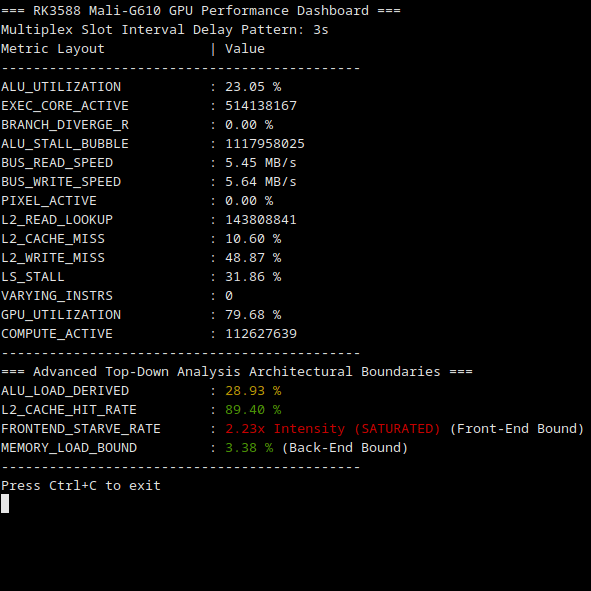
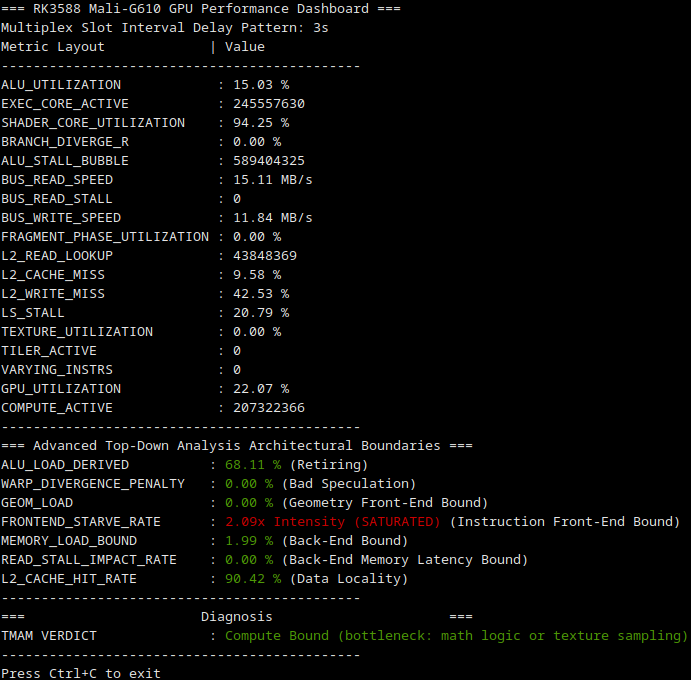
feat: add new indicators and repository citation tracking metadata
- new raw parameters: SHADER_CORE_UTILIZATION, BUS_READ_STALL, FRAGMENT_PHASE_UTILIZATION, TEXTURE_UTILIZATION, TILER_ACTIVE;
- new derived indicators: GEOM_LOAD, WARP_DIVERGENCE_PENALTY, MEMORY_SYSTEM_STALLS;
- create CITATION.cff file for automated software citation;
- include persistent Zenodo DOI link in the documentation;

diff --git a/main.cpp b/main.cpp
@@ -41,20 +41,24 @@ int main(int argc, char** argv) {
     // Mali-G610 (Valhall v3 CSF) IDs
     // check /usr/local/include/hwcpipe/hwcpipe_counter.h to add more
     map<hwcpipe_counter, string> dashboard = {
-        {MaliAnyUtil,               "GPU_UTILIZATION "},
-        {MaliFragActiveCy,          "PIXEL_ACTIVE    "},
-        {MaliCompQueueActiveCy,     "COMPUTE_ACTIVE  "},
-        {MaliCoreActiveCy,          "EXEC_CORE_ACTIVE"},
-        {MaliALUUtil,               "ALU_UTILIZATION "},
-        {MaliEngStarveCy,           "ALU_STALL_BUBBLE"},
-        {MaliVarInstr,              "VARYING_INSTRS  "},
-        {MaliLSUtil,                "LS_STALL        "},
-        {MaliL2CacheRdLookup,       "L2_READ_LOOKUP  "},
-        {MaliL2CacheRdMissRate,     "L2_CACHE_MISS   "},
-        {MaliL2CacheWrMissRate,     "L2_WRITE_MISS   "},
-        {MaliExtBusRdBy,            "BUS_READ_SPEED  "},
-        {MaliExtBusWrBy,            "BUS_WRITE_SPEED "},
-        {MaliEngDivergedInstrRate,  "BRANCH_DIVERGE_R"}
+        {MaliAnyUtil,               "GPU_UTILIZATION           "},
+        {MaliCoreUtil,              "SHADER_CORE_UTILIZATION   "},
+        {MaliFragUtil,              "FRAGMENT_PHASE_UTILIZATION"},
+        {MaliCompQueueActiveCy,     "COMPUTE_ACTIVE            "},
+        {MaliCoreActiveCy,          "EXEC_CORE_ACTIVE          "},
+        {MaliALUUtil,               "ALU_UTILIZATION           "},
+        {MaliEngStarveCy,           "ALU_STALL_BUBBLE          "},
+        {MaliVarInstr,              "VARYING_INSTRS            "},
+        {MaliLSUtil,                "LS_STALL                  "},
+        {MaliL2CacheRdLookup,       "L2_READ_LOOKUP            "},
+        {MaliL2CacheRdMissRate,     "L2_CACHE_MISS             "},
+        {MaliL2CacheWrMissRate,     "L2_WRITE_MISS             "},
+        {MaliExtBusRdStallCy,       "BUS_READ_STALL            "},
+        {MaliExtBusRdBy,            "BUS_READ_SPEED            "},
+        {MaliExtBusWrBy,            "BUS_WRITE_SPEED           "},
+        {MaliEngDivergedInstrRate,  "BRANCH_DIVERGE_R          "},
+        {MaliTilerActiveCy,         "TILER_ACTIVE              "},
+        {MaliTexUtil,               "TEXTURE_UTILIZATION       "}
     };
 
     // Global persistence caches for UI and absolute values
@@ -72,11 +76,11 @@ int main(int argc, char** argv) {
 
     // Explicitly bundle counters into 5 safe hardware slices
     vector<set<hwcpipe_counter>> bundle_sets = {
-        {MaliCoreActiveCy, MaliEngStarveCy, MaliEngDivergedInstrRate},       // Bundle 0: Starvation + Core Analytics
-        {MaliAnyUtil, MaliFragActiveCy, MaliCompQueueActiveCy},              // Bundle 1: High level activity
-        {MaliALUUtil, MaliLSUtil, MaliVarInstr},                             // Bundle 2: Execution Stalls
-        {MaliL2CacheRdLookup, MaliL2CacheRdMissRate, MaliL2CacheWrMissRate}, // Bundle 3: Caching
-        {MaliExtBusRdBy, MaliExtBusWrBy}                                     // Bundle 4: Ext Bus Memory
+        {MaliCoreActiveCy, MaliEngStarveCy, MaliEngDivergedInstrRate},          // Bundle 0: Starvation + Core Analytics
+        {MaliAnyUtil, MaliCompQueueActiveCy, MaliCoreUtil, MaliTilerActiveCy},  // Bundle 1: High level activity
+        {MaliALUUtil, MaliFragUtil, MaliLSUtil, MaliVarInstr, MaliTexUtil},     // Bundle 2: Execution Stalls
+        {MaliL2CacheRdLookup, MaliL2CacheRdMissRate, MaliL2CacheWrMissRate},    // Bundle 3: Caching
+        {MaliExtBusRdBy, MaliExtBusWrBy, MaliExtBusRdStallCy}                   // Bundle 4: Ext Bus Memory
     };
 
     // Instantiate 5 distinct configuration profiles
@@ -151,17 +155,20 @@ int main(int argc, char** argv) {
                             previous_raw_values[counter_enum] = current_raw_val;
                             previous_timestamps[counter_enum] = exact_sample_time;
                         }
-                        else if (counter_enum == MaliCoreActiveCy || counter_enum == MaliEngStarveCy) {
+                        else if (counter_enum == MaliCoreActiveCy || counter_enum == MaliEngStarveCy ||
+                                 counter_enum == MaliExtBusRdStallCy || counter_enum == MaliTilerActiveCy) {
                             stringstream ss; ss << fixed << setprecision(0) << current_raw_val;
                             live_values[counter_enum] = ss.str();
                         }
                         else if (counter_enum == MaliAnyUtil ||
-                                 counter_enum == MaliFragActiveCy ||
+                                 counter_enum == MaliFragUtil ||
                                  counter_enum == MaliALUUtil ||
                                  counter_enum == MaliLSUtil ||
                                  counter_enum == MaliL2CacheRdMissRate ||
                                  counter_enum == MaliL2CacheWrMissRate ||
-                                 counter_enum == MaliEngDivergedInstrRate) {
+                                 counter_enum == MaliEngDivergedInstrRate ||
+                                 counter_enum == MaliCoreUtil ||
+                                 counter_enum == MaliTexUtil) {
 
                             stringstream ss;
                             ss << fixed << setprecision(2) << current_raw_val << " %";
@@ -215,53 +222,142 @@ int main(int argc, char** argv) {
         cout << string(45, '-') << endl;
 
         // --- TOP-DOWN ANALYSIS MATH ---
+        double total_cycles = processed_numeric_values[MaliCoreActiveCy];
         double gpu_util = processed_numeric_values[MaliAnyUtil];
+        double core_util = processed_numeric_values[MaliCoreUtil];
+        double texture_util = processed_numeric_values[MaliTexUtil];
         double alu_util = processed_numeric_values[MaliALUUtil];
+        double fragment_util = processed_numeric_values[MaliALUUtil];
+        double tiler_cycles = processed_numeric_values[MaliTilerActiveCy];
+        double devergence_freq = processed_numeric_values[MaliEngDivergedInstrRate];
         double ls_stall = processed_numeric_values[MaliLSUtil];
         double l2_miss = processed_numeric_values[MaliL2CacheRdMissRate];
+        double rd_stalls = processed_numeric_values[MaliExtBusRdStallCy];
 
         // ALU LOAD DERIVED
         string alu_load_str = "0.00 %";
-        double alu_load_val = 0.0;
+        double alu_load = 0.0;
         if (gpu_util > 0.001) {
-            alu_load_val = (alu_util / gpu_util) * 100.0;
-            if (alu_load_val > 100.0) alu_load_val = 100.0;
-            stringstream ss; ss << fixed << setprecision(2) << alu_load_val << " %";
+            alu_load = (alu_util / gpu_util) * 100.0;
+            if (alu_load > 100.0) alu_load = 100.0;
+            stringstream ss; ss << fixed << setprecision(2) << alu_load << " %";
             alu_load_str = ss.str();
         }
-        // L2 CACHE HIT RATE
-        double l2_hit_rate_val = 100.0 - l2_miss;
-        if (l2_hit_rate_val < 0.0) l2_hit_rate_val = 0.0;
-        stringstream ss_l2; ss_l2 << fixed << setprecision(2) << l2_hit_rate_val << " %";
 
-        // MEMORY LOAD BOUND (Back-End Bound Equivalent)
-        double memory_load_bound_val = ls_stall * (l2_miss / 100.0);
-        if (memory_load_bound_val > 100.0) memory_load_bound_val = 100.0;
-        stringstream ss_mlb; ss_mlb << fixed << setprecision(2) << memory_load_bound_val << " %";
+        // TILER BOUND RATE
+        string geom_util_str = "0.00 %";
+        double geom_util = 0.0;
+        if (total_cycles > 0.001) {
+            geom_util = (tiler_cycles / total_cycles) * 100.0;
+            if (geom_util < 0.0) geom_util = 0.0;
+            stringstream ss; ss << fixed << setprecision(2) << geom_util << " %";
+            geom_util_str = ss.str();
+        }
+
+        // WARP DIVERGENCE PENALTY
+        double bad_spec_penalty = alu_util * (devergence_freq / 100.0);
+        if (bad_spec_penalty < 0.0) bad_spec_penalty = 0.0;
+        stringstream ss_bad_spec; ss_bad_spec << fixed << setprecision(2) << bad_spec_penalty << " %";
+
+        // L2 CACHE HIT RATE
+        double l2_hit_rate = 100.0 - l2_miss;
+        if (l2_hit_rate < 0.0) l2_hit_rate = 0.0;
+        stringstream ss_l2; ss_l2 << fixed << setprecision(2) << l2_hit_rate << " %";
+
+        // MEMORY LOAD BOUND
+        double memory_load_bound = ls_stall * (l2_miss / 100.0);
+        if (memory_load_bound > 100.0) memory_load_bound = 100.0;
+        stringstream ss_mlb; ss_mlb << fixed << setprecision(2) << memory_load_bound << " %";
+
+        // MEMORY SYSTEM STALLS
+        string l2_stall_rate_str = "0.00 %";
+        double l2_stall_rate = 0.0;
+        if (total_cycles > 0.001) {
+            l2_stall_rate = (rd_stalls / total_cycles) * 100.0;
+            if (l2_stall_rate < 0.0) l2_stall_rate = 0.0;
+            if (l2_stall_rate > 100.0) l2_stall_rate = 100.0;
+            stringstream ss; ss << fixed << setprecision(2) << l2_stall_rate << " %";
+            l2_stall_rate_str = ss.str();
+        }
 
         // --- ASSIGN ANSI DYNAMIC COLOR LOGIC TO THE DERIVED OUTPUT ENGINE ---
         string color_alu = "\033[33m"; // Yellow Default
-        if (alu_load_val > 40.0) color_alu = "\033[32m"; // Green: Dense math processing
-        else if (alu_load_val < 20.0 && gpu_util > 50.0) color_alu = "\033[31m"; // Red: GPU busy but running tiny math
+        if (alu_load > 40.0) color_alu = "\033[32m"; // Green: Dense math processing
+        else if (alu_load < 20.0 && gpu_util > 50.0) color_alu = "\033[31m"; // Red: GPU busy but running tiny math
+
+        string color_tiler = "\033[32m"; // Green: Baseline geometry pipeline load
+        if (geom_util > 75.0) color_tiler = "\033[31m"; // Red: Severe geometry pipeline bottleneck
+        else if (geom_util > 50.0) color_tiler = "\033[33m"; // Yellow: Moderate geometry pipeline bottleneck
+
+        string color_badspec = "\033[32m"; // Green Default
+        if (devergence_freq > 35.0 && bad_spec_penalty > 15.0) color_badspec = "\033[31m"; // Red: ALU cycles are being burned processing empty, masked-out lane instructions
+        else if (devergence_freq > 15.0) color_badspec = "\033[33m"; // Yellow: Rising execution slot waste due to warp divergence serialization
 
         string color_l2 = "\033[32m"; // Green Default
-        if (l2_hit_rate_val < 75.0) color_l2 = "\033[31m"; // Red: Terribly un-aligned cache layout
-        else if (l2_hit_rate_val < 85.0) color_l2 = "\033[33m"; // Yellow: Cache misses rising
+        if (l2_hit_rate < 75.0) color_l2 = "\033[31m"; // Red: Terribly un-aligned cache layout
+        else if (l2_hit_rate < 85.0) color_l2 = "\033[33m"; // Yellow: Cache misses rising
+
+        string color_l2stall = "\033[32m"; // Green: Baseline cache/bus state
+        if (l2_stall_rate > 20.0) color_l2stall = "\033[31m"; // Red: Severe system RAM bandwidth starvation / high latency stalls
+        else if (l2_stall_rate > 10.0) color_l2stall = "\033[33m"; // Yellow: Increasing memory bus pressure / elevated cache misses
 
         string color_starve = "\033[32m"; // Green Default
         if (raw_starve_ratio > 1.50) color_starve = "\033[31m"; // Red: Multi-pipeline instruction starvation is heavy
         else if (raw_starve_ratio > 0.80) color_starve = "\033[33m"; // Yellow: Medium bubble presence
 
         string color_mlb = "\033[32m"; // Green Default
-        if (memory_load_bound_val > 15.0) color_mlb = "\033[31m"; // Red: Major system RAM bottlenecking
-        else if (memory_load_bound_val > 5.0) color_mlb = "\033[33m"; // Yellow: Medium load constraints
+        if (memory_load_bound > 15.0) color_mlb = "\033[31m"; // Red: Major system RAM bottlenecking
+        else if (memory_load_bound > 5.0) color_mlb = "\033[33m"; // Yellow: Medium load constraints
 
         // Display Advanced Top-Down Block Output Layout with Dynamic Colors applied
         cout << "=== Advanced Top-Down Analysis Architectural Boundaries ===" << endl;
-        cout << setw(25) << left << "ALU_LOAD_DERIVED" << " : " << colorize(alu_load_str, color_alu) << endl;
-        cout << setw(25) << left << "L2_CACHE_HIT_RATE" << " : " << colorize(ss_l2.str(), color_l2) << endl;
-        cout << setw(25) << left << "FRONTEND_STARVE_RATE" << " : " << colorize(stable_starve_rate_str, color_starve) << " (Front-End Bound)" << endl;
+        cout << setw(25) << left << "ALU_LOAD_DERIVED" << " : " << colorize(alu_load_str, color_alu) << " (Retiring)" << endl;
+        cout << setw(25) << left << "WARP_DIVERGENCE_PENALTY" << " : " << colorize(ss_bad_spec.str(), color_badspec) << " (Bad Speculation)" << endl;
+        cout << setw(25) << left << "GEOM_LOAD" << " : " << colorize(geom_util_str, color_tiler) << " (Geometry Front-End Bound)" << endl;
+        cout << setw(25) << left << "FRONTEND_STARVE_RATE" << " : " << colorize(stable_starve_rate_str, color_starve) << " (Instruction Front-End Bound)" << endl;
         cout << setw(25) << left << "MEMORY_LOAD_BOUND" << " : " << colorize(ss_mlb.str(), color_mlb) << " (Back-End Bound)" << endl;
+        cout << setw(25) << left << "READ_STALL_IMPACT_RATE" << " : " << colorize(l2_stall_rate_str, color_l2stall) << " (Back-End Memory Latency Bound)" << endl;
+        cout << setw(25) << left << "L2_CACHE_HIT_RATE" << " : " << colorize(ss_l2.str(), color_l2) << " (Data Locality)" << endl;
+        cout << string(45, '-') << endl;
+
+        // Final conclusions
+        cout << "===                      Diagnosis                      ===" << endl;
+        string color_diag = "\033[37m"; // Green Default
+        string str_diag = "Mixed (bottleneck: unidentified)";
+        if (core_util > 80.0) {
+            if (alu_util < 20.0 && texture_util < 20.0 && ls_stall < 20.0) {
+                color_diag = "\033[33m"; // Yellow
+                str_diag = "Stalling (bottleneck: instruction dependencies or branch divergence)";
+            } else if (alu_util > 80.0) {
+                color_diag = "\033[32m"; // Green
+                str_diag = "High Retiring (bottleneck: pure math)";
+            } else if (texture_util > 80.0) {
+                color_diag = "\033[32m"; // Green
+                str_diag = "High Retiring (bottleneck: texture sampling execution)";
+            } else if (l2_stall_rate < 5.0) {
+                color_diag = "\033[32m"; // Green
+                str_diag = "Compute Bound (bottleneck: math logic or texture sampling)";
+            } else if (l2_stall_rate > 20.0) {
+                color_diag = "\033[31m"; // Red
+                str_diag = "Backend Memory Bound / Instruction Hidden Latency Failure";
+            } else if (geom_util > 75.0 && fragment_util < 35.0) {
+                color_diag = "\033[33m"; // Yellow
+                str_diag = "Backend Core Bound, Vertex Processing (bottleneck: vertex shader execution saturation, cores are full of vertex math)";
+            }
+        } else if (core_util < 40.) {
+            if (l2_stall_rate > 20.0) {
+                color_diag = "\033[31m"; // Red
+                str_diag = "Frontend Memory Latency/Bandwidth Bound (bottleneck: memory footprints)";
+            } else if (geom_util > 75.0 && fragment_util < 35.0) {
+                color_diag = "\033[33m"; // Yellow
+                str_diag = "Vertex Front-End Latency / Structural Bound (bottleneck: fixed-function tiler saturation, the shader cores are starving)";
+            }
+        }
+        if (bad_spec_penalty > 40.0 && alu_util > 80.0) {
+            color_diag = "\033[31m"; // Red
+            str_diag = "Bad Speculation (bottleneck: control-flow serialization)";
+        }
+        cout << setw(25) << left << "TMAM VERDICT" << " : " << colorize(str_diag, color_diag) << endl;
 
         // Bottom
         cout << string(45, '-') << endl;

diff --git a/README.md b/README.md
@@ -1,8 +1,10 @@
 # Mali-G610 Performance Monitor for RK3588
 
+[![DOI](https://zenodo.org/badge/1263354737.svg)](https://doi.org/10.5281/zenodo.21396388)
+
 A lightweight, high-performance C++ command-line utility designed to monitor internal hardware counters of the **Arm Mali-G610 GPU** on **Rockchip RK3588/RK3588S** SoCs.
 
-This application uses the modern **libGPUCounters (v2.4.0) [ex-HWCPipe]** API to implement an advanced Top-Down style microarchitectural analysis tailored to mobile GPU topologies, bypassing physical hardware limitations to monitor 14 raw parameters and 4 real-time derived indicators.
+This application uses the modern **libGPUCounters (v2.4.0) [ex-HWCPipe]** API to implement an advanced Top-Down style microarchitectural analysis tailored to mobile GPU topologies.
 
 <p align="center">
   <img src="assets/screenshot.png" width="600" alt="App GUI Screenshot">
@@ -62,34 +64,56 @@ sudo ./valkyrja 3
 
 Traditional CPU metrics like Branch Misprediction and Intel-style TMAM bounds do not map directly to GPU topologies due to hardware latency hiding and thread-group lockstep warps. This monitor translates Mali metrics into logical architectural equivalents:
 
-```
-             [ GPU_UTILIZATION (Top-Level Job Activity) ]
-               /                                     \
-[ PIXEL_ACTIVE (3D Graphics) ]                   [ COMPUTE_ACTIVE (Compute/ML) ]
-               \                                     /
-               [ EXEC_CORE_ACTIVE (Shader Execution) ]
-              /                                      \
-[ ALU_UTILIZATION ]                              [ LS_STALL / VARYING_INSTRS ]
-            |      \                                   |                     \
-[ ALU_LOAD_DERIVED ] [ FRONTEND_STARVE_RATE ]    [ MEMORY_LOAD_BOUND ] [ L2_CACHE_HIT_RATE ]
-                          (Front-End Bound)        (Back-End Bound)
-```
+                                                       [ GPU_UTILIZATION (Top-Level Job Activity) ]
+                                              /                              |                              \
+                          [ PIXEL_ACTIVE (3D Graphics) ]           [ GEOM_LOAD (Tiler) ]          [ COMPUTE_ACTIVE (Compute/ML) ]
+                                             |                  ([L1] Front-End Tiler Bound)                 |
+                                              \                              |                              /
+                                               `-----------------------------+-----------------------------'
+                                                                             |
+                                                          [ EXEC_CORE_ACTIVE (Shader Execution) ]
+                                                                             |
+                                     ----------------------------------------+----------------------------------------
+                                   /                                         |                                        \
+                      [ FRONTEND_STARVE_RATE ]                      [ ALU_UTILIZATION ]                    [ LS_STALL / VARYING_INSTRS ]
+                   ([L1] Front-End Bound (Instr))                     /             \                                  |
+                                                                     /               \                                 |
+                                                     [ ALU_LOAD_DERIVED ]        [ WARP_DIVERGENCE_PENALTY ]     [ MEMORY_LOAD_BOUND ]
+                                                         (Retiring)                  (Bad Speculation)           ([L1] Back-End Bound)
+                                                                                                                       |
+                                                                                                                       ---------------- [ MEMORY_SYSTEM_STALLS ]
+                                                                                                                                        ([L2] Latency/DRAM Bound)
+                                                                                                                                                  |
+                                                                                                                                                  ---------------- [ L2_CACHE_HIT_RATE ]
+                                                                                                                                                             ([L3] Hit Bound / Data Locality)
 
 ### Advanced Top-Down Metrics
 
-#### 1. `FRONTEND_STARVE_RATE` (Front-End Bound Equivalent)
-* **Formula**: `(ALU_STALL_BUBBLE / EXEC_CORE_ACTIVE)`
-* **Interpretation**: Measures the ratio of active core runtime where execution lanes sat completely idle because instructions were unavailable. On multi-core Valhall v3 configurations (like the Mali-G610), raw pipeline event accumulators count across multiple internal parallel pipelines simultaneously. If parallel stalling events exceed baseline active clock ticks, the application dynamically reformats the percentage output into an **Intensity Saturation Coefficient Factor** (e.g., `2.12x Intensity (SATURATED)`). This coefficient acts as a direct multiplier tracking instruction-delivery bottlenecks—meaning a `2.12x` factor implies that arithmetic units encounter an average of 2.12 structural starvation bubbles for every single active core clock cycle.
-
-#### 2. `MEMORY_LOAD_BOUND` (Back-End Bound Equivalent)
-* **Formula**: `LS_STALL * (L2_CACHE_MISS / 100.0)`
-* **Interpretation**: Evaluates severe memory engine constraints by weighing overall Load/Store execution stalls against L2 cache miss rates. High boundaries indicate that the execution core is choked waiting for external main system RAM.
-
-#### 3. `ALU_LOAD_DERIVED`
+#### 1. `ALU_LOAD_DERIVED` (Retiring)
 * **Formula**: `(ALU_UTILIZATION / GPU_UTILIZATION) * 100`
 * **Interpretation**: Isolates math operational density from idle clock ticks. If `ALU_UTILIZATION` is high but `GPU_UTILIZATION` is low, the workload runs demanding code in short bursts. If both metrics spike together, the pipeline is intensely math-bound.
 
-#### 4. `L2_CACHE_HIT_RATE`
+#### 2. `WARP_DIVERGENCE_PENALTY` (Bad Speculation)
+* **Formula**: `ALU_UTILIZATION * (BRANCH_DIVERGE_R / 100.0)`
+* **Interpretation**: Quantifies the true microarchitectural performance damage caused by control-flow branch splitting. It measures the absolute percentage of overall GPU capacity lost to processing masked (disabled) vector execution lanes. High values mean that the arithmetic ports are congested with dead instruction paths, indicating a critical need to flatten if/else shader logic into non-divergent ternary math hardware operations (clamp, mix, select).
+
+#### 3. `GEOM_LOAD` (Front-End Bound -> Fixed-Function Geometry Starvation)
+* **Formula**: `(TILER_ACTIVE / EXEC_CORE_ACTIVE) * 100.0`
+* **Interpretation**: Tracks the utilization of the fixed-function primitive assembly and sorting hardware blocks relative to base clock execution. High workloads (>75%) coupled with a low pixel shading footprint pinpoint geometric asset bottlenecks (e.g., lack of mesh Level-of-Detail models, missing camera frustum culling, or high micro-triangle densities causing tiler thrashing).
+
+#### 4. `FRONTEND_STARVE_RATE` (Front-End Bound -> Instruction Delivery Starvation)
+* **Formula**: `(ALU_STALL_BUBBLE / EXEC_CORE_ACTIVE)`
+* **Interpretation**: Measures the ratio of active core runtime where execution lanes sat completely idle because instructions were unavailable. On multi-core Valhall v3 configurations (like the Mali-G610), raw pipeline event accumulators count across multiple internal parallel pipelines simultaneously. If parallel stalling events exceed baseline active clock ticks, the application dynamically reformats the percentage output into an **Intensity Saturation Coefficient Factor** (e.g., `2.12x Intensity (SATURATED)`). This coefficient acts as a direct multiplier tracking instruction-delivery bottlenecks—meaning a `2.12x` factor implies that arithmetic units encounter an average of 2.12 structural starvation bubbles for every single active core clock cycle.
+
+#### 5. `MEMORY_LOAD_BOUND` (Back-End Bound)
+* **Formula**: `LS_STALL * (L2_CACHE_MISS / 100.0)`
+* **Interpretation**: Evaluates severe memory engine constraints by weighing overall Load/Store execution stalls against L2 cache miss rates. High boundaries indicate that the execution core is choked waiting for external main system RAM.
+
+#### 6. `READ_STALL_IMPACT_RATE` (Back-End Memory Latency Bound)
+* **Formula**: `(BUS_READ_STALL / EXEC_CORE_ACTIVE) * 100.0`
+* **Interpretation**: Measures the absolute cycle penalty where the GPU's internal L2 cache interface sits entirely frozen waiting on the external RK3588 memory controller to return data. A rate exceeding 20% identifies a severe system RAM bandwidth or latency bottleneck, requiring immediate texture compression (ASTC/ETC2) or better temporal data locality.
+
+#### 7. `L2_CACHE_HIT_RATE` (Efficiency Tracker)
 * **Formula**: `100.0 - L2_CACHE_MISS`
 * **Interpretation**: Highlights data locality. Healthy pipelines maintain a hit rate `>85%`. Lower numbers imply poor memory access indexing patterns within custom OpenCL, Vulkan Compute, or ML inference shaders.
 
@@ -97,12 +121,18 @@ Traditional CPU metrics like Branch Misprediction and Intel-style TMAM bounds do
 
 ### Raw Counter Diagnostic Guide
 
+* **`ALU_UTILIZATION`**: The raw workload density passing through the arithmetic processing pipelines.
 * **`GPU_UTILIZATION`**: General frontend job manager availability indicator.
+* **`SHADER_CORE_UTILIZATION`**: The baseline execution clock tracking core population status. Indicates whether at least one active execution thread group (warp) is resident in the programmable core slices.
 * **`PIXEL_ACTIVE`**: Active cycles inside fragment/pixel paths. Indicates traditional 3D rendering overhead.
 * **`COMPUTE_ACTIVE`**: Compute queue transaction metrics. Tracks ML layer executions (OpenCL/Vulkan Compute) and geometric matrices.
 * **`BRANCH_DIVERGE_R`**: Tracks the occurrence of branch divergence within 16-thread hardware warps. Higher rates trigger lane-masking overhead, forcing the GPU to execute both conditional paths sequentially instead of concurrently.
-* **`VARYING_INSTRS`**: Total vector attribute/interpolator actions. **Note:** This metric safely reads `0` during OpenCL, machine learning, or pure compute tasks since compute threads entirely bypass traditional graphics primitive rasterization hardware units.
 * **`BUS_READ_SPEED` / `BUS_WRITE_SPEED`**: Corrected instantaneous external main memory interface throughput formatted cleanly in **MB/s**. Use this to cross-reference system bandwidth bottlenecks on the shared RK3588 memory bus.
+* **`BUS_READ_STALL`**: Raw cycle register tracking how long the GPU's memory subsystem sat stalled waiting for external main memory read transactions to resolve.
+* **`TEXTURE_UTILIZATION`**: Tracks the saturation of the hardware texturing units (T-Unit) performing bilinear/trilinear filtering, texture fetches, or image reads/writes.
+* **`TILER_ACTIVE`**: Absolute hardware cycle counter for the fixed-function geometry tiler block, capturing primitive binning, viewport clipping, and tile list generation.
+* **`VARYING_INSTRS`**: Total vector attribute/interpolator actions. **Note:** This metric safely reads `0` during OpenCL, machine learning, or pure compute tasks since compute threads entirely bypass traditional graphics primitive rasterization hardware units.
+* **`COMPUTE_ACTIVE`**: Compute queue transaction metrics. Tracks Compute/ML layer executions (OpenCL/Vulkan Compute) and geometric matrices.
 
 ---
 
